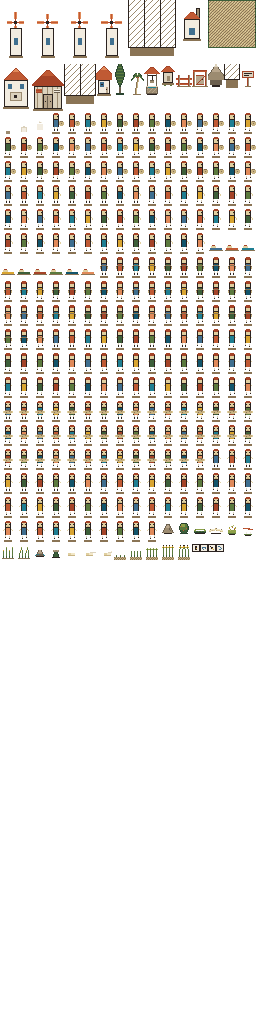
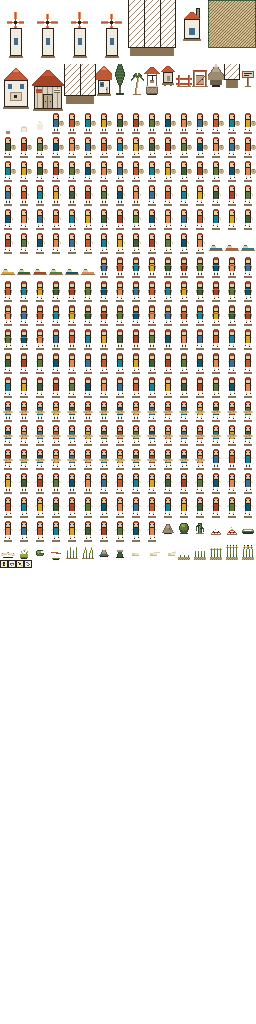
feat: add lily pad, cactus, and campfire decor props (#44)
* feat: add lily pad, cactus, and campfire decor props

Extends the deterministic terrain-decor scatter with three new
render-only props: lily pads on calm open shallow water (previously
undecorated), cacti as a rarer alternative to palms on inland sand,
and a two-frame flickering campfire on open grass. No sim, snapshot,
or save-format changes.

Claude-Session: https://claude.ai/code/session_01NnASF9icPrrqyhBaWuArwu

* Fix web CI failures in tests and build

---------

Changed region(s): [[0.4062, 0.5, 1.0, 0.5625], [0.1875, 0.5312, 0.375, 0.5625], [0.0, 0.5312, 0.1562, 0.5625]]

diff --git a/tools/genart/sprites/props.ts b/tools/genart/sprites/props.ts
@@ -310,6 +310,84 @@ export const PALM: SpriteGrid = grid(16, 32, {
   for (let x = 5; x <= 12; x += 1) set(x, 30, 'b');
 });
 
+/** Floating lily pad for calm open water. 16×16, anchorY 0. */
+export const LILYPAD: SpriteGrid = grid(16, 16, {
+  d: P.vegDarkest,
+  v: P.vegDark,
+  m: P.vegMid,
+  l: P.vegLight,
+  w: P.wheat,
+}, (set) => {
+  for (let y = 6; y <= 11; y += 1) {
+    const half = Math.floor(3 + Math.sin(((y - 6) / 5) * Math.PI) * 2);
+    for (let x = 8 - half; x <= 7 + half; x += 1) {
+      // A wedge notch cut from the east side, like a real lily pad.
+      if (y >= 7 && y <= 8 && x >= 9) continue;
+      const edge = x === 8 - half || x === 7 + half || y === 6;
+      set(x, y, edge ? 'd' : y <= 8 ? 'l' : y % 2 === 0 ? 'm' : 'v');
+    }
+  }
+  set(6, 9, 'w');
+  set(6, 8, 'l');
+});
+
+/** Saguaro-style cactus for dry inland sand. 16×16, anchorY 0. */
+export const CACTUS: SpriteGrid = grid(16, 16, {
+  d: P.vegDarkest,
+  v: P.vegDark,
+  m: P.vegMid,
+  l: P.vegLight,
+  i: P.ink,
+  c: P.sandShadow,
+}, (set) => {
+  for (let y = 3; y <= 12; y += 1) {
+    for (let x = 6; x <= 9; x += 1) {
+      const edge = x === 6 || x === 9 || y === 3;
+      set(x, y, edge ? 'd' : x === 7 ? 'l' : 'm');
+    }
+  }
+  for (let y = 6; y <= 10; y += 1) set(4, y, y === 6 || y === 10 ? 'd' : 'v');
+  set(5, 6, 'd');
+  set(5, 5, 'd');
+  for (let y = 8; y <= 11; y += 1) set(11, y, y === 8 || y === 11 ? 'd' : 'v');
+  set(10, 8, 'd');
+  set(10, 7, 'd');
+  set(7, 5, 'i');
+  set(8, 8, 'i');
+  for (let x = 4; x <= 11; x += 1) set(x, 13, 'c');
+});
+
+/** Flickering campfire for open grass. 16×16, anchorY 0, two flame frames. */
+function campfire(phase: number): SpriteGrid {
+  return grid(16, 16, {
+    s: P.stoneShadow,
+    m: P.stoneMid,
+    d: P.terraDark,
+    t: P.terraMid,
+    l: P.terraLight,
+    w: P.wheat,
+    i: P.ink,
+    c: P.sandShadow,
+  }, (set) => {
+    // Crossed logs.
+    for (let x = 4; x <= 11; x += 1) set(x, 12, x % 3 === 0 ? 'i' : 'd');
+    set(5, 11, 'i');
+    set(10, 11, 'i');
+    // Ring of stones.
+    for (const sx of [3, 6, 9, 12]) set(sx, 13, sx % 2 === 0 ? 's' : 'm');
+    // Flame, taller and brighter on the second phase.
+    const lift = phase * 2;
+    for (let y = 11 - lift; y <= 10; y += 1) {
+      const half = y === 11 - lift ? 0 : 1;
+      for (let x = 7 - half; x <= 8 + half; x += 1) set(x, y, y <= 8 - lift ? 'w' : y <= 9 ? 'l' : 't');
+    }
+    set(7, 9 - lift, 'w');
+    for (let x = 3; x <= 12; x += 1) set(x, 14, 'c');
+  });
+}
+
+export const CAMPFIRE_FRAMES: SpriteGrid[] = [campfire(0), campfire(1)];
+
 export interface PropSprite {
   grid: SpriteGrid;
   anchorY: number;
@@ -329,4 +407,7 @@ export const PROP_SPRITES: Record<string, PropSprite> = {
   'prop.mushroom': { grid: MUSHROOM, anchorY: 0 },
   'prop.shoreRock': { grid: SHORE_ROCK, anchorY: 0 },
   'prop.driftwood': { grid: DRIFTWOOD, anchorY: 0 },
+  'prop.lilypad': { grid: LILYPAD, anchorY: 0 },
+  'prop.cactus': { grid: CACTUS, anchorY: 0 },
+  'prop.campfire': { grid: CAMPFIRE_FRAMES[0], anchorY: 0, frames: CAMPFIRE_FRAMES },
 };

diff --git a/src/render/tilemap.test.ts b/src/render/tilemap.test.ts
@@ -215,22 +215,36 @@ describe('terrainProps', () => {
     ]);
   });
 
-  it('scatters decor only on grass, sand and rock', () => {
+  it('scatters decor only on grass, sand, rock and open shallow water', () => {
     const rows = Array.from({ length: 24 }, (_, y) =>
-      Array.from({ length: 24 }, (_, x) => [GRASS, SAND, ROCK, FOREST, MOUNTAIN][(x + y) % 5]),
+      Array.from({ length: 24 }, (_, x) => [GRASS, SAND, ROCK, FOREST, MOUNTAIN, SHALLOW][(x + y) % 6]),
     );
     const props = terrainProps(grid(rows));
     const decor = props.filter((prop) => prop.decor);
     expect(decor.length).toBeGreaterThan(0);
-    const grassKeys = new Set(['prop.bush', 'prop.flowers', 'prop.stump', 'prop.deadfall', 'prop.mushroom']);
-    const sandKeys = new Set(['prop.palm', 'prop.reeds', 'prop.shoreRock', 'prop.driftwood']);
+    const grassKeys = new Set([
+      'prop.bush', 'prop.flowers', 'prop.stump', 'prop.deadfall', 'prop.mushroom', 'prop.campfire',
+    ]);
+    const sandKeys = new Set(['prop.palm', 'prop.reeds', 'prop.shoreRock', 'prop.driftwood', 'prop.cactus']);
     for (const prop of decor) {
       const terrain = rows[prop.y][prop.x];
-      expect([GRASS, SAND, ROCK]).toContain(terrain);
+      expect([GRASS, SAND, ROCK, SHALLOW]).toContain(terrain);
       if (terrain === GRASS) expect(grassKeys.has(prop.key)).toBe(true);
       if (terrain === ROCK) expect(prop.key).toBe('prop.boulder');
       if (terrain === SAND) expect(sandKeys.has(prop.key)).toBe(true);
+      if (terrain === SHALLOW) expect(prop.key).toBe('prop.lilypad');
     }
+  });
+
+  it('places lily pads only on open shallow water, never touching land', () => {
+    const rows = [
+      [GRASS, SHALLOW, SHALLOW, SHALLOW, SHALLOW, SHALLOW],
+      [GRASS, SHALLOW, SHALLOW, SHALLOW, SHALLOW, SHALLOW],
+      [GRASS, SHALLOW, SHALLOW, SHALLOW, SHALLOW, SHALLOW],
+    ];
+    const lilypads = terrainProps(grid(rows)).filter((prop) => prop.key === 'prop.lilypad');
+    expect(lilypads.length).toBeGreaterThan(0);
+    for (const pad of lilypads) expect(pad.x).toBeGreaterThan(1);
   });
 
   it('tags spring flowers with season 0', () => {
@@ -258,7 +272,7 @@ describe('terrainProps', () => {
     expect(terrainProps(grid(rows))).toEqual(terrainProps(grid(rows)));
   });
 
-  it('picks reeds on sand that touches water and palms inland', () => {
+  it('picks reeds on sand that touches water and palms/cacti inland', () => {
     // A one-tile sand strip: the left cell borders shallow water, the right does not.
     const rows = [
       [SAND, SAND, SAND, SAND],
@@ -269,7 +283,8 @@ describe('terrainProps', () => {
         .filter((prop) => prop.y === 0)
         .map((prop) => prop.key),
     );
-    expect([...sandKeys].every((key) => key === 'prop.reeds' || key === 'prop.palm')).toBe(true);
+    const inlandKeys = new Set(['prop.reeds', 'prop.palm', 'prop.cactus']);
+    expect([...sandKeys].every((key) => inlandKeys.has(key))).toBe(true);
     expect(sandKeys.has('prop.reeds')).toBe(true);
   });
 });

diff --git a/src/render/tilemap.ts b/src/render/tilemap.ts
@@ -196,6 +196,9 @@ const FOREST_EDGE_CHANCE = 0.14;
 const MUSHROOM_CHANCE = 0.06;
 const SHORE_ROCK_CHANCE = 0.12;
 const DRIFTWOOD_CHANCE = 0.08;
+const CACTUS_CHANCE = 0.03;
+const CAMPFIRE_CHANCE = 0.015;
+const LILYPAD_CHANCE = 0.05;
 
 function neighbourTerrain(
   tiles: ArrayLike<number>,
@@ -239,9 +242,16 @@ function decorFor(tiles: ArrayLike<number>, width: number, height: number, x: nu
       if (edgeRoll < FOREST_EDGE_CHANCE + MUSHROOM_CHANCE) return { key: 'prop.mushroom' };
     }
     if (hash01(x, y, DECOR_SALT + 2) < FLOWER_CHANCE) return { key: 'prop.flowers', season: 0 };
+    if (!nearForest && hash01(x, y, DECOR_SALT + 4) < CAMPFIRE_CHANCE) return { key: 'prop.campfire' };
     return roll < BUSH_CHANCE ? { key: 'prop.bush' } : null;
   }
   if (t === 5) return roll < BOULDER_CHANCE ? { key: 'prop.boulder' } : null;
+  if (t === 1) {
+    // Calm open water only — the shoreline is already busy with reeds/rocks/driftwood.
+    const touchesLand = touchesTerrain(tiles, width, height, x, y, [2, 3, 4, 5, 6]);
+    if (touchesLand) return null;
+    return hash01(x, y, DECOR_SALT + 5) < LILYPAD_CHANCE ? { key: 'prop.lilypad' } : null;
+  }
   if (t !== 2) return null;
   const touchesDeep = touchesTerrain(tiles, width, height, x, y, [0]);
   const touchesWater = touchesTerrain(tiles, width, height, x, y, [0, 1]);
@@ -252,7 +262,8 @@ function decorFor(tiles: ArrayLike<number>, width: number, height: number, x: nu
     if (shoreRoll < SHORE_ROCK_CHANCE + DRIFTWOOD_CHANCE) return { key: 'prop.driftwood' };
     return null;
   }
-  return roll < PALM_CHANCE ? { key: 'prop.palm' } : null;
+  if (roll < PALM_CHANCE) return { key: 'prop.palm' };
+  return roll < PALM_CHANCE + CACTUS_CHANCE ? { key: 'prop.cactus' } : null;
 }
 
 /**

diff --git a/src/state/demoWorld.test.ts b/src/state/demoWorld.test.ts
@@ -669,6 +669,8 @@ describe('simulation review regressions', () => {
   it('supplies an accessible bakery despite an enclosed farm pickup', () => {
     const terrain = grassTerrain(24, 24);
     const world = new DemoWorld(terrain);
+    const simulation = world as unknown as { villagers: Array<unknown> };
+    simulation.villagers.splice(1);
     world.resources.wood = 1000;
     world.resources.stone = 1000;
     world.resources.grain = 0;
@@ -687,7 +689,7 @@ describe('simulation review regressions', () => {
       findHaulTask(from: [number, number]): { from: number | 'stockpile'; to: number | 'stockpile'; resource: string };
     };
     expect(internals.findHaulTask([0, 0])).toMatchObject({ from: 'stockpile', to: bakery, resource: 'flour' });
-    for (let i = 0; i < 1500; i += 1) world.advance();
+    for (let i = 0; i < 1500 && world.resources.food === 0; i += 1) world.advance();
     expect(world.snapshot().resources.food).toBeGreaterThan(0);
     expect(world.buildings.find((b) => b.id === farm)!.inventory.grain).toBe(5);
   });

diff --git a/tools/genart/app-icon.test.ts b/tools/genart/app-icon.test.ts
@@ -18,7 +18,7 @@ function rgbKey(r: number, g: number, b: number): string {
 }
 
 function assertRgba8(png: Uint8Array) {
-  expect(png.subarray(12, 16).toString('ascii')).toBe('IHDR');
+  expect(Buffer.from(png.subarray(12, 16)).toString('ascii')).toBe('IHDR');
   expect(png[24]).toBe(8);
   expect(png[25]).toBe(6);
 }

diff --git a/docs/props-and-assets-backlog.md b/docs/props-and-assets-backlog.md
@@ -13,8 +13,8 @@ is in [`progress.md`](../progress.md).
 |---|---|
 | Terrain bases | deep water, shallow water, sand, grass, rock — 4 variants each, plus fringes and animated foam |
 | Standing terrain props | `prop.cypress` (forest tiles), `prop.peak` (mountain tiles) |
-| Decor scatter | `prop.bush`, `prop.boulder`, `prop.palm`, `prop.reeds` — added in this PR |
-| Buildings | hut, farm (+ field), granary, mill (animated), bakery (animated), well, 3 scaffold sizes |
+| Decor scatter | `prop.bush`, `prop.boulder`, `prop.palm`, `prop.reeds`, `prop.flowers`, `prop.stump`, `prop.deadfall`, `prop.mushroom`, `prop.shoreRock`, `prop.driftwood`, `prop.lilypad`, `prop.cactus`, `prop.campfire` (animated) |
+| Buildings | hut, farm (+ field), granary, mill (animated), bakery (animated), well, fence, gate, signpost, storehouse, 3 scaffold sizes |
 | Crops | wheat, 4 growth stages, sway animation on the ripe stage |
 | Characters | one villager body in 3 facings × idle/4-frame walk/lie-down, recolored into 6 dyes |
 | Character VFX | 4 thought bubbles (tool, fork, zzz, speech) |
@@ -47,11 +47,15 @@ Roughly what each kind of addition costs, in the order the work happens:
 
 | Idea | Notes |
 |---|---|
-| Bushes, boulders, palms, reeds | **Done in this PR.** Deterministic hash scatter, hidden under building footprints. |
-| Tree stumps and deadfall | Scatter on grass adjacent to forest; sells the idea that the forest was logged. Could later be driven by depleted `ResourceNode`s rather than a hash. |
-| Flower patches, seasonal tint | The clock already exposes a season; a spring-only flower prop is a two-line placement rule and makes seasons legible on the map. |
+| Bushes, boulders, palms, reeds | **Done.** Deterministic hash scatter, hidden under building footprints. |
+| Tree stumps and deadfall | **Done.** Scatter on grass adjacent to forest. Could later be driven by depleted `ResourceNode`s rather than a hash. |
+| Flower patches, seasonal tint | **Done.** Spring-only `prop.flowers` on grass, gated on `snapshot.clock.season`. |
+| Forest-margin mushrooms | **Done.** `prop.mushroom` alongside stump/deadfall on the forest edge. |
+| Cliff / shoreline rocks | **Done.** `prop.shoreRock` on sand touching deep water, `prop.driftwood` on the wider shoreline. |
+| Lily pads on open water | **Done.** `prop.lilypad` scatters on calm shallow water that doesn't touch land, keeping the shoreline (reeds/rocks/driftwood) visually distinct from open sea. |
+| Desert cactus | **Done.** `prop.cactus` as a rarer alternative to `prop.palm` on inland sand. |
+| Campfire | **Done.** `prop.campfire` scatters sparsely on open grass (away from forest), two-frame flame flicker using the same animation path as reeds sway. |
 | Depleted-node art | `ResourceNode.amount` is already in the sim but invisible. A stump variant for an exhausted forest tile and a rubble variant for exhausted rock would make gathering readable. Needs nodes on the wire (they aren't in the tick snapshot today). |
-| Cliff / shoreline rocks | Wet-rock props on sand tiles touching deep water. |
 | Dirt paths worn by villagers | Track tile traversal counts in the sim, blend a path fringe over grass. Genuinely nice, genuinely not cheap. |
 
 ### Terrain types
@@ -66,13 +70,13 @@ Roughly what each kind of addition costs, in the order the work happens:
 
 | Idea | Notes |
 |---|---|
-| Well | **Done in this PR.** 1×1 amenity, unlocks at population 4, no jobs — a village landmark and a natural hook if a thirst need ever lands. |
+| Well | **Done.** 1×1 amenity, unlocks at population 4, no jobs — a village landmark and a natural hook if a thirst need ever lands. |
+| Fences, gates, signposts | **Done.** 1×1 zero-job decorative buildings — data + sprite only. |
+| Storehouse (generic) | **Done.** Wood/stone counterpart to the grain-only granary; same `haul` job kind. |
 | Woodcutter's lodge / quarry hut | Would let gathering be assigned to a building instead of raw terrain, which is how the other jobs already work. Needs a job kind. |
 | Market | A social/trade hub; `gold` exists in the resource list and is currently unused, so this is where an economy sink would go. |
-| Storehouse (generic) | Granary only stores grain/flour/food. A wood/stone store is a data-only addition. |
 | Chapel / meeting hall | Pure amenity for the Socialize need — a destination beats wandering to a random tile. |
 | Fishing hut | New job kind against shallow-water tiles; would give coastal villages a reason to exist. |
-| Fences, gates, signposts | 1×1 zero-job decorative buildings. Data + sprite only, and they let the player decorate. |
 
 ### Characters
 

diff --git a/progress.md b/progress.md
@@ -68,10 +68,15 @@ npm run dev
 
 ### Props & assets
 
-- Decor scatter: `prop.bush` (grass), `prop.boulder` (rock), `prop.palm` and `prop.reeds` (sand,
-  reeds only where the tile touches water). Placed deterministically by a tile hash in
-  `terrainProps()`; flagged `decor` so `buildDrawList` hides them under building footprints.
+- Decor scatter (all deterministic by tile hash in `terrainProps()`, flagged `decor` so
+  `buildDrawList` hides them under building footprints): `prop.bush`, `prop.flowers`
+  (spring-only), `prop.stump`/`prop.deadfall`/`prop.mushroom` (forest edge) on grass;
+  `prop.boulder` on rock; `prop.palm`, `prop.cactus` (inland), `prop.reeds`, `prop.shoreRock`,
+  `prop.driftwood` (shoreline) on sand; `prop.lilypad` on calm open shallow water;
+  `prop.campfire` (two-frame flame flicker) sparsely on open grass.
 - `well` — a 1×1 amenity building (15 stone / 5 wood), unlocked at population 4, no jobs.
+- `fence`, `gate`, `signpost` — 1×1 zero-job decorative buildings.
+- `storehouse` — 2×2 wood/stone counterpart to the grain-only granary, with the same `haul` job.
 - Candidate future additions are catalogued in
   [`docs/props-and-assets-backlog.md`](docs/props-and-assets-backlog.md).
 
